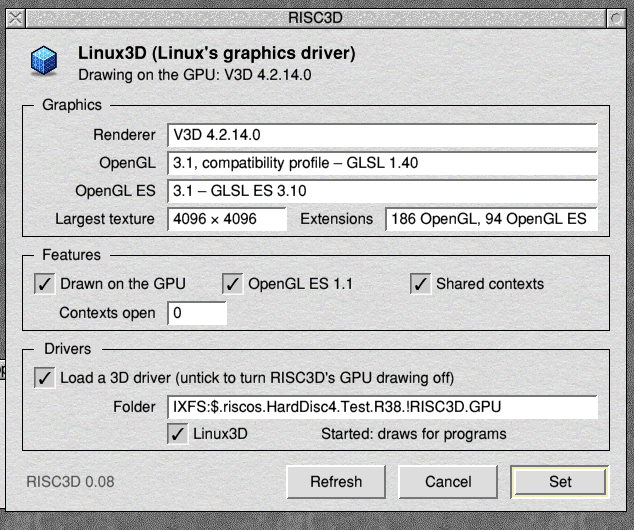
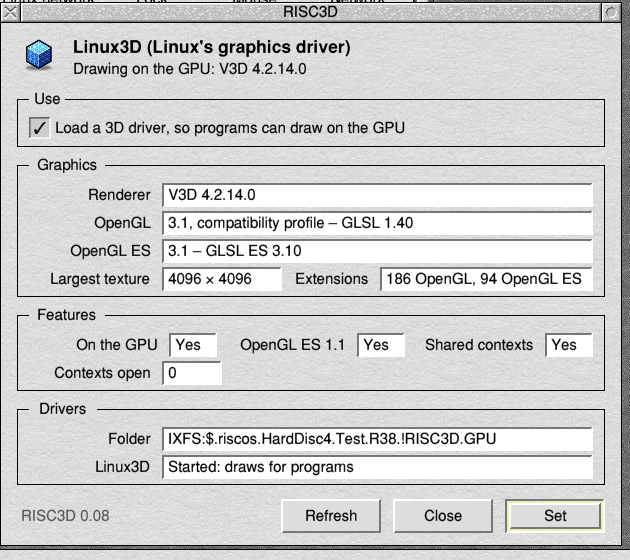
0.15: !RISC3DSetup 1.03 (Set stays open; only the choice is a tick box); !RISC3D 0.08-2

diff --git a/config/RISC3DSetup/risc3dsetup.c b/config/RISC3DSetup/risc3dsetup.c
@@ -13,6 +13,10 @@
    units), else centred. Message_OpenConfigWindow brings it to the front.
    Plain Wimp calls, no Toolbox.
 
+   1.03: Set applies the choice and the window stays, showing the result.
+   Only the choice has a tick box (at the top, in its own group); what is
+   only shown is in display fields ("Yes", "No"), as the other values.
+
    1.02: named RISC3D in Configure; "Load a 3D driver" turns RISC3D's
    driver loading on or off (RISC3D 0.08's RISC3D$Off), kept in
    Choices:RISC3D.Settings for the next start and applied at once when no
@@ -131,12 +135,12 @@ row (int *y, const char *lab, const char *val, const char *help)
   *y -= ROW;
 }
 
-/* a ticked or empty option sprite, with text after it; never clicked */
+/* a label and a short display field saying Yes or No: shown, not clicked */
 static void
-tick_at (int x0, int x1, int y, int on, const char *text, const char *help)
+yes_no_at (int x0, int x1, int y, int on, const char *text, const char *help)
 {
-  add_icon (x0, y - 44, x1, y, F_TEXT | F_SPRITE | F_VCENTRE | F_INDIR | F_COLOURS (7, 1), text,
-	    on ? "Sopton" : "Soptoff", help);
+  label_at (x0, x1 - 16 - 96, y, text, help);
+  value_at (x1 - 96, x1, y, on ? "Yes" : "No", help);
 }
 
 /* a clickable option: the choice to load a driver */
@@ -174,14 +178,14 @@ static const char
   h_gles[] = "The newest OpenGL ES a program can have, and its shading language.",
   h_texture[] = "The largest texture the GPU takes.",
   h_exts[] = "How many OpenGL and OpenGL ES extensions the driver offers.",
-  h_gpu[] = "Ticked: programs' 3D is drawn on the machine's GPU. Not ticked: in software (with no driver, Mesa draws in each program, as before).",
-  h_es1[] = "Ticked: programs can have OpenGL ES 1.1 contexts too.",
-  h_share[] = "Ticked: a program can have contexts that share textures and buffers, one per thread, as web browsers draw. On RISC OS on Linux this needs RISC3D 0.06, Linux3D 0.06 and riscos-risc3d 0.23 or later.",
+  h_gpu[] = "Yes: programs' 3D is drawn on the machine's GPU. No: in software (with no driver, Mesa draws in each program, as before).",
+  h_es1[] = "Yes: programs can have OpenGL ES 1.1 contexts too.",
+  h_share[] = "Yes: a program can have contexts that share textures and buffers, one per thread, as web browsers draw. On RISC OS on Linux this needs RISC3D 0.06, Linux3D 0.06 and riscos-risc3d 0.23 or later.",
   h_contexts[] = "How many 3D contexts programs have open now.",
   h_folder[] = "Where RISC3D looks for drivers. Each one there is tried in turn until one starts; a driver refuses to start on machines it isn't for.",
-  h_drv[] = "A driver in RISC3D's drivers folder. Ticked: it started and draws for programs. Otherwise, why it didn't start.",
+  h_drv[] = "A driver in RISC3D's drivers folder: whether it started and draws for programs, or why it didn't.",
   h_version[] = "The version of the RISC3D module.",
-  h_load[] = "Ticked: RISC3D loads a 3D driver, so programs can draw on the GPU. Not ticked: no driver is loaded and programs draw in software, as without RISC3D. Click Set to keep the choice.";
+  h_load[] = "Click to tick or untick. Ticked: RISC3D loads a 3D driver, so programs can draw on the GPU. Not ticked: no driver is loaded and programs draw in software, as without RISC3D. Then click Set.";
 
 static void
 build (void)
@@ -205,6 +209,12 @@ build (void)
 	    info.subline, "", h_gpu);
   y -= 112;
 
+  /* the one choice */
+  y = group (y, "Use");
+  i_load = option_at (LABEL_X, VALUE_R, y, want_on, "Load a 3D driver, so programs can draw on the GPU", h_load);
+  y -= ROW;
+  y = group_end (y + 8);
+
   /* what programs get */
   y = group (y, "Graphics");
   row (&y, "Renderer", info.renderer, h_renderer);
@@ -219,9 +229,9 @@ build (void)
 
   y = group (y, "Features");
   int third = (VALUE_R - LABEL_X) / 3;
-  tick_at (LABEL_X, LABEL_X + third, y, info.on_gpu, "Drawn on the GPU", h_gpu);
-  tick_at (LABEL_X + third, LABEL_X + 2 * third, y, info.es1, "OpenGL ES 1.1", h_es1);
-  tick_at (LABEL_X + 2 * third, VALUE_R, y, info.share, "Shared contexts", h_share);
+  yes_no_at (LABEL_X, LABEL_X + third, y, info.on_gpu, "On the GPU", h_gpu);
+  yes_no_at (LABEL_X + third, LABEL_X + 2 * third, y, info.es1, "OpenGL ES 1.1", h_es1);
+  yes_no_at (LABEL_X + 2 * third, VALUE_R, y, info.share, "Shared contexts", h_share);
   y -= ROW;
   label_at (LABEL_X, LABEL_X + LABEL_W, y, "Contexts open", h_contexts);
   value_at (VALUE_X, VALUE_X + 120, y, info.contexts_text, h_contexts);
@@ -229,17 +239,10 @@ build (void)
   y = group_end (y + 8);
 
   y = group (y, "Drivers");
-  i_load = option_at (LABEL_X, VALUE_R, y, want_on, "Load a 3D driver (untick to turn RISC3D's GPU drawing off)", h_load);
-  y -= ROW;
   row (&y, "Folder", info.folder[0] ? info.folder : "(none: !RISC3D hasn't been seen)", h_folder);
   for (int d = 0; d < info.ndrv; d++)
-    {
-      tick_at (VALUE_X, VALUE_X + 300, y, info.drv_ok[d], info.drv_name[d], h_drv);
-      add_icon (VALUE_X + 300, y - 44, VALUE_R, y, F_TEXT | F_VCENTRE | F_INDIR | F_COLOURS (info.drv_ok[d] ? 7 : 5, 1),
-		info.drv_state[d], "", h_drv);
-      y -= 48;
-    }
-  y = group_end (y + 4);
+    row (&y, info.drv_name[d], info.drv_state[d], h_drv);
+  y = group_end (y + 8);
 
   /* RISC3D's version, and the buttons */
   y -= 8;
@@ -250,10 +253,10 @@ build (void)
 			"Refresh", "R5,3", "Click SELECT to look again (for a driver loaded or changed since).");
   i_cancel = add_icon (WIN_W - MARGIN - 2 * 200 - 24, y - 68, WIN_W - MARGIN - 200 - 24, y,
 		       F_TEXT | F_BORDER | F_HCENTRE | F_VCENTRE | F_FILLED | F_INDIR | F_CLICK | F_COLOURS (7, 1),
-		       "Cancel", "R5,3", "Click SELECT to close this window without changing anything.");
+		       "Close", "R5,3", "Click SELECT to close this window (a choice not Set is left as it was).");
   i_set = add_icon (WIN_W - MARGIN - 200, y - 68, WIN_W - MARGIN, y,
 		    F_TEXT | F_BORDER | F_HCENTRE | F_VCENTRE | F_FILLED | F_INDIR | F_CLICK | F_COLOURS (7, 1),
-		    "Set", "R6,3", "Click SELECT to use the choice now (when no program has a 3D context open) and keep it for the next start.");
+		    "Set", "R6,3", "Click SELECT to use the choice now (when no program has a 3D context open) and keep it for the next start. The window stays open and shows the result.");
   win_h = -(y - 68 - 24);
 }
 
@@ -675,9 +678,9 @@ main (int argc, char **argv)
 		    report ("RISC3D couldn't keep the choice in Choices:RISC3D.Settings: it lasts until the machine next starts.");
 		  apply_choice (want_on);
 		}
-	      goto done;
+	      /* (and stay, showing what it did) */
 	    }
-	  if (b[3] == win && b[4] == i_refresh)
+	  if (b[3] == win && (b[4] == i_refresh || b[4] == i_set))
 	    {
 	      /* again, with as many driver lines as there now are */
 	      int st[9] = { win };

diff --git a/docs/releases/0.15.md b/docs/releases/0.15.md
@@ -1,0 +1,40 @@
+# RISC3D 0.15
+
+Configure's **RISC3D** window can now turn RISC3D's GPU drawing off. With it off, no 3D driver is loaded and programs draw in software, as they did before RISC3D. The window has also been laid out afresh.
+
+![Configure's RISC3D window on a Raspberry Pi 4 under RISC OS on Linux](../images/risc3dsetup.png)
+
+## What's in it
+
+**RISC3D-0.08-2.zip** is also the PackMan package RISC3D. It holds:
+- `!RISC3D`, for `!Boot.Resources`:
+  - the RISC3D module 0.08;
+  - in `GPU`: Linux3D 0.06 and V3DRender 0.16.
+- `!RISC3DSetup` 1.03, for `!Boot.Resources.Configure`.
+
+## Changes
+
+- **Load a 3D driver**, the window's one tick box, with Set (the window stays open and shows the result):
+  - Set keeps the choice in `Choices:RISC3D.Settings`.
+  - If no program has a 3D context open, the choice takes effect at once; otherwise it takes effect at the next start.
+- **RISC3D 0.08:**
+  - It loads no driver while `RISC3D$Off` is set.
+  - `*RMReInit RISC3D` now starts it afresh and loads the driver again.
+- **The window:**
+  - Groups for Graphics, Features and Drivers.
+  - The driver's name in large type.
+  - Yes/No fields for features, and a field for each driver.
+  - Interactive help for each part.
+
+Linux's side (riscos-risc3d 0.23-1) and the client library (0.12) are unchanged.
+
+## Tested
+
+On a Raspberry Pi 4 under RISC OS on Linux, run on its own:
+- the window;
+- turning RISC3D off and on again.
+
+## Licences
+
+- RISC3D, Linux3D, rol-3d, the client and !RISC3DSetup: MIT.
+- V3DRender: GPL-2.0-or-later. Its source is at https://github.com/adyoull/riscos-v3drender.

diff --git a/CHANGELOG.md b/CHANGELOG.md
@@ -1,5 +1,15 @@
 # Changelog
 
+## 0.15: Configure's RISC3D window, clearer (20 Nov 2026)
+
+- **!RISC3D 0.08-2** (`out/RISC3D-0.08-2.zip`): as 0.08-1, with !RISC3DSetup 1.03.
+- **!RISC3DSetup 1.03.** The owner asked that the window not close on Set, and that it be clear what is clickable:
+  - **Set** applies the choice and the window stays open, showing the result. Cancel is now **Close**.
+  - **Load a 3D driver** is the only tick box. It is in a group of its own, **Use**, at the top.
+  - **Features** are labelled display fields saying Yes or No (On the GPU, OpenGL ES 1.1, Shared contexts), like the other values. Each driver in the folder is a labelled field with its state.
+  - Tested on the Pi 4 under ROL, opened from inside Configure: Set turned RISC3D off and on again, the window stayed open, and the Settings file was written each time.
+- The owner's ROL Pi has !RISC3DSetup installed in `!Boot.Resources.Configure` (1.03).
+
 ## 0.14: turn RISC3D off from Configure; the window laid out afresh (20 Nov 2026)
 
 - **!RISC3D 0.08-1** (`out/RISC3D-0.08-1.zip`): RISC3D 0.08, Linux3D 0.06,

diff --git a/README.md b/README.md
@@ -7,8 +7,8 @@ above it, 3D drivers below it. Programs use Mesa as they do now; where a
 driver is registered the drawing is done by the machine's GPU driver, and
 where none is, Mesa draws in software as before.
 
-**Release 0.14, 20 November 2026** (0.11 moved to the allocated numbers;
-0.12 added contexts that share objects, for WebKit; 0.13 and 0.14 add
+**Release 0.15, 20 November 2026** (0.11 moved to the allocated numbers;
+0.12 added contexts that share objects, for WebKit; 0.13 to 0.15 add
 Configure's RISC3D window). It draws on the GPU:
 - on native RISC OS on a Raspberry Pi 4, through V3DRender;
 - on RISC OS on Linux, through Linux3D, on whatever GPU Linux drives. So
